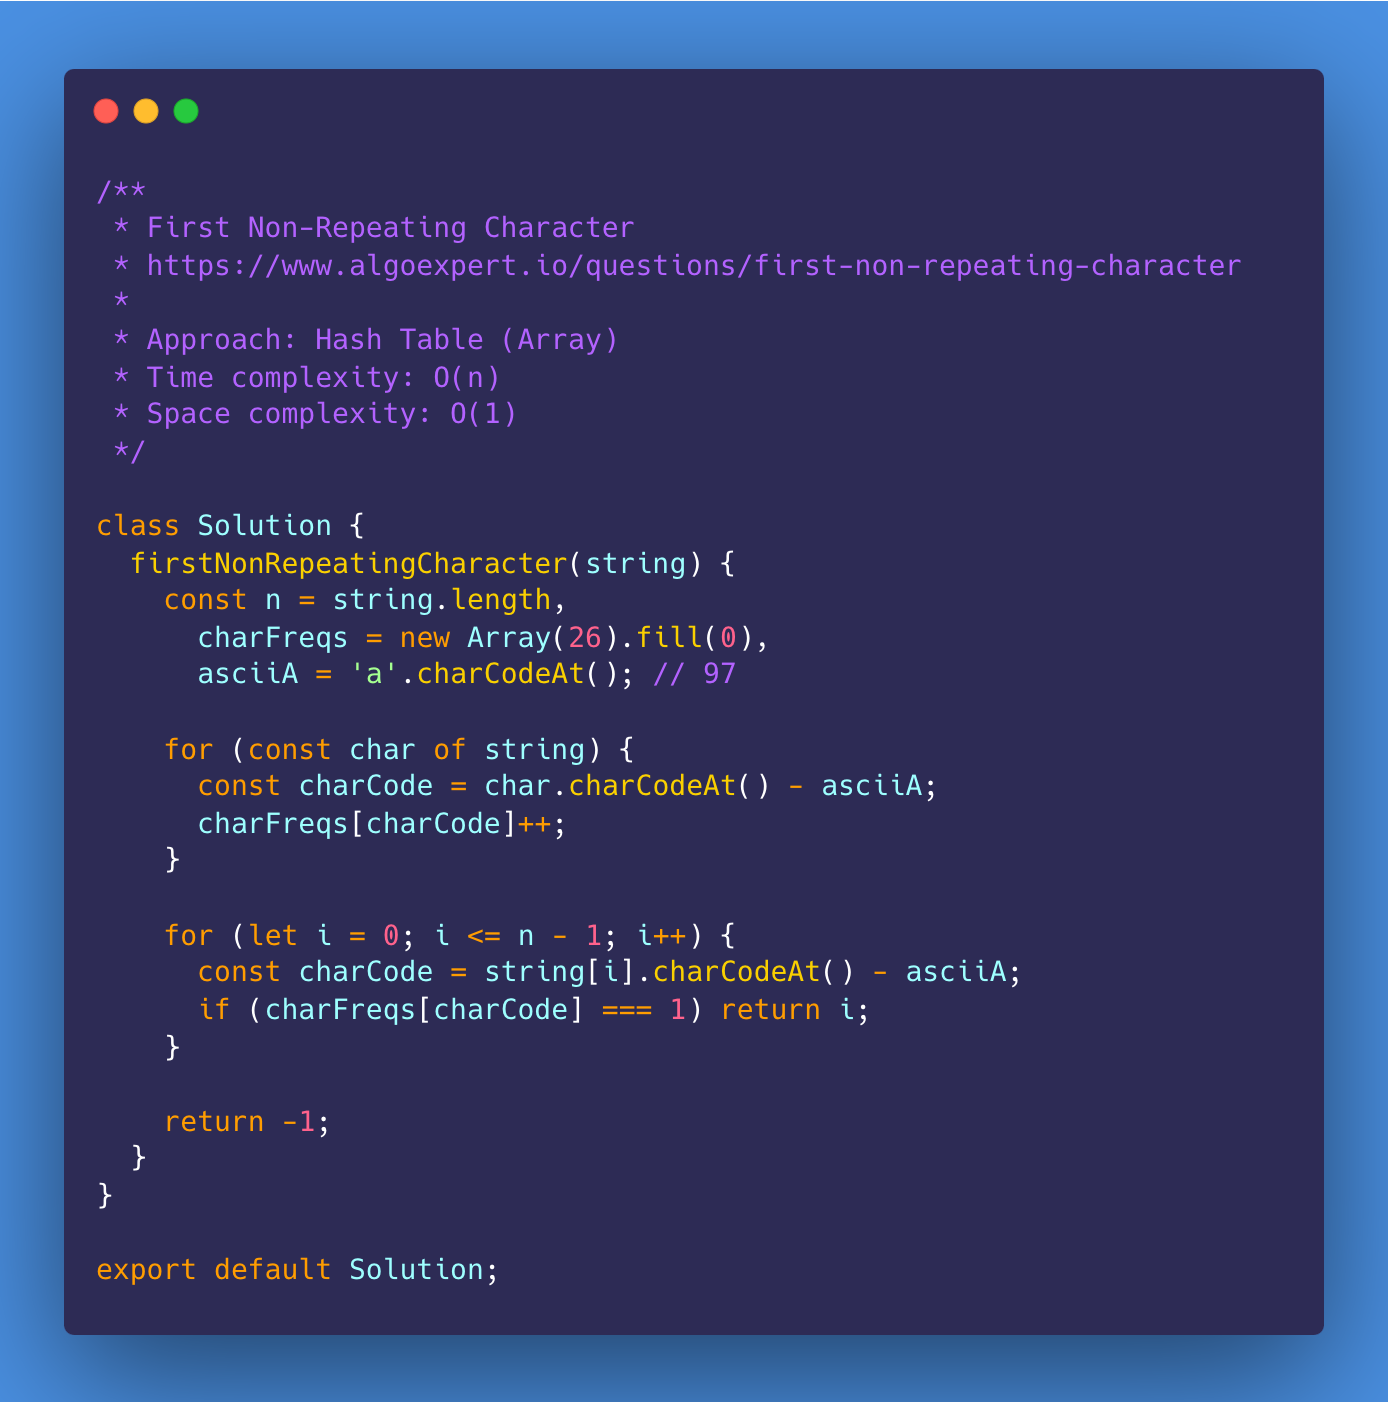
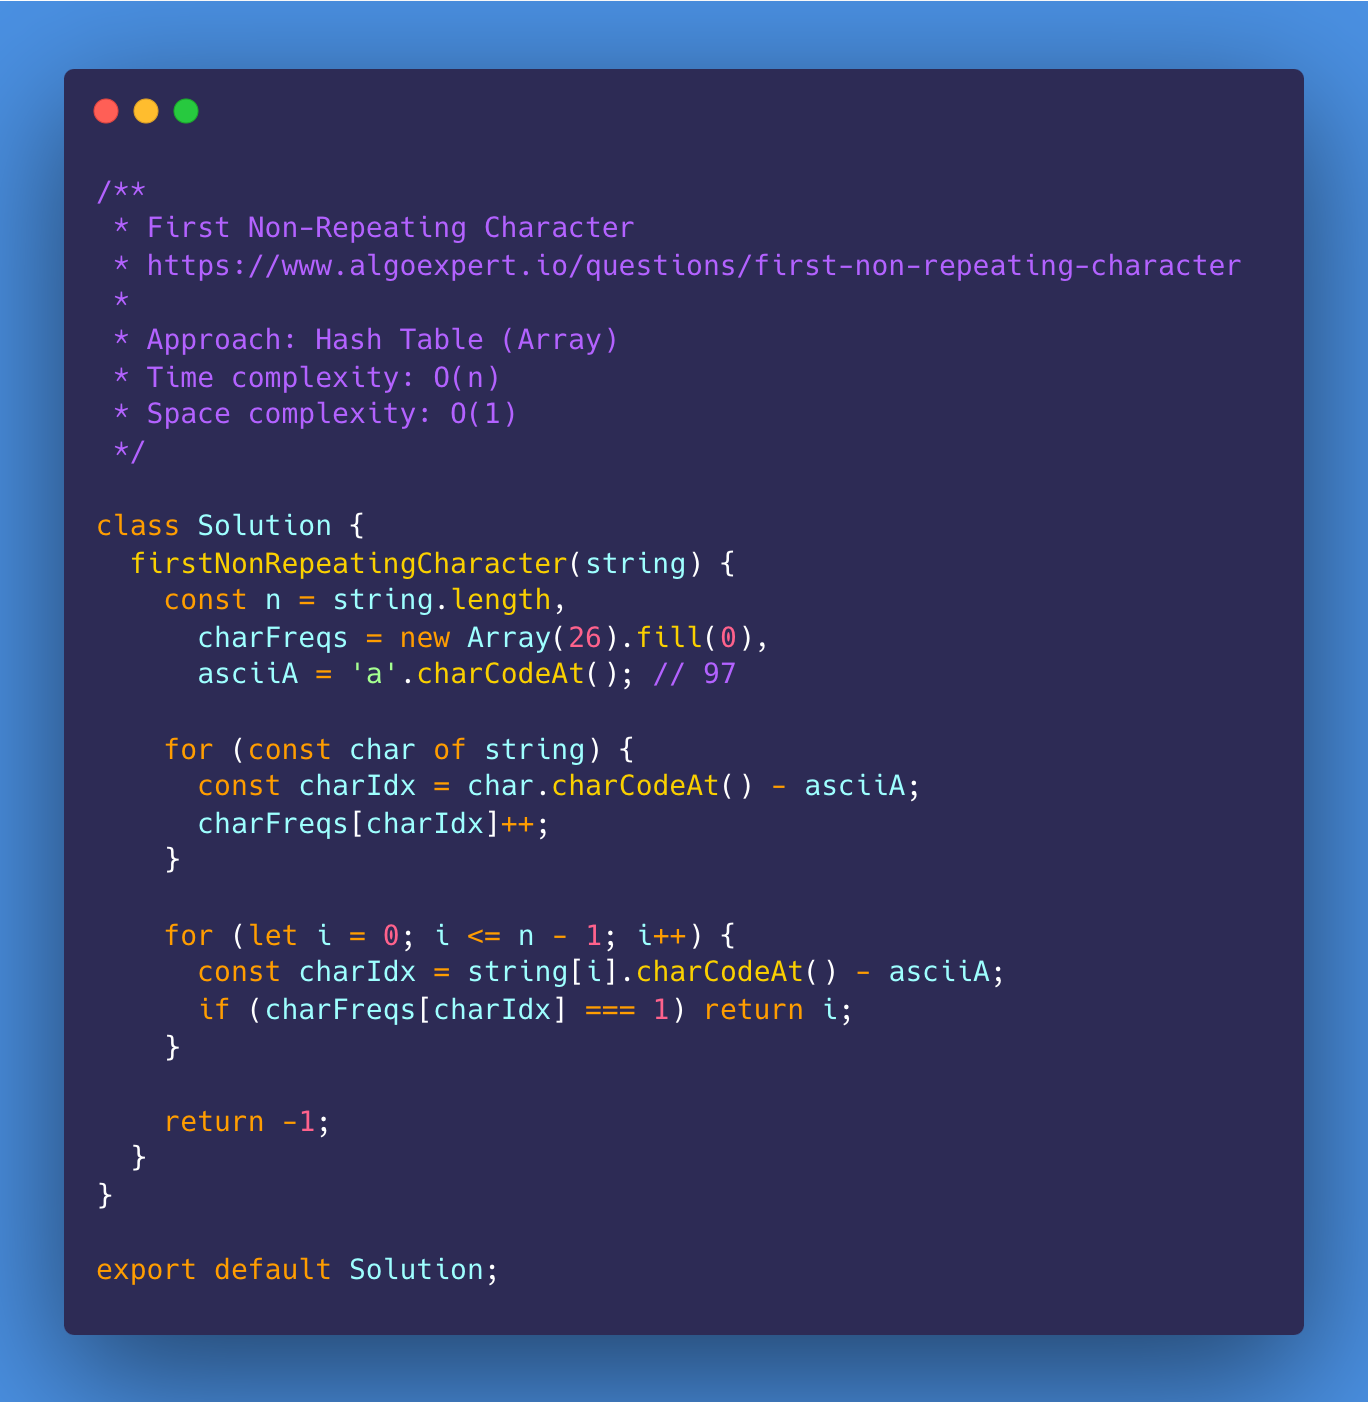
First Non-Repeating Character updates

diff --git a/002-algoexpert/034-first-non-repeating-character/002-solution/Solution.js b/002-algoexpert/034-first-non-repeating-character/002-solution/Solution.js
@@ -14,13 +14,13 @@ class Solution {
       asciiA = 'a'.charCodeAt(); // 97
 
     for (const char of string) {
-      const charCode = char.charCodeAt() - asciiA;
-      charFreqs[charCode]++;
+      const charIdx = char.charCodeAt() - asciiA;
+      charFreqs[charIdx]++;
     }
 
     for (let i = 0; i <= n - 1; i++) {
-      const charCode = string[i].charCodeAt() - asciiA;
-      if (charFreqs[charCode] === 1) return i;
+      const charIdx = string[i].charCodeAt() - asciiA;
+      if (charFreqs[charIdx] === 1) return i;
     }
 
     return -1;

diff --git a/002-algoexpert/034-first-non-repeating-character/__shared__/shared.test.js b/002-algoexpert/034-first-non-repeating-character/__shared__/shared.test.js
@@ -7,8 +7,6 @@ export const sharedTests = (getSolution) => {
     expectedOutput = undefined;
   });
 
-  /* https://www.algoexpert.io/questions/first-non-repeating-character */
-
   test(`Test Case 1: {
     "input": { "string": "abcdcaf" },
     "expectedOutput": 1
